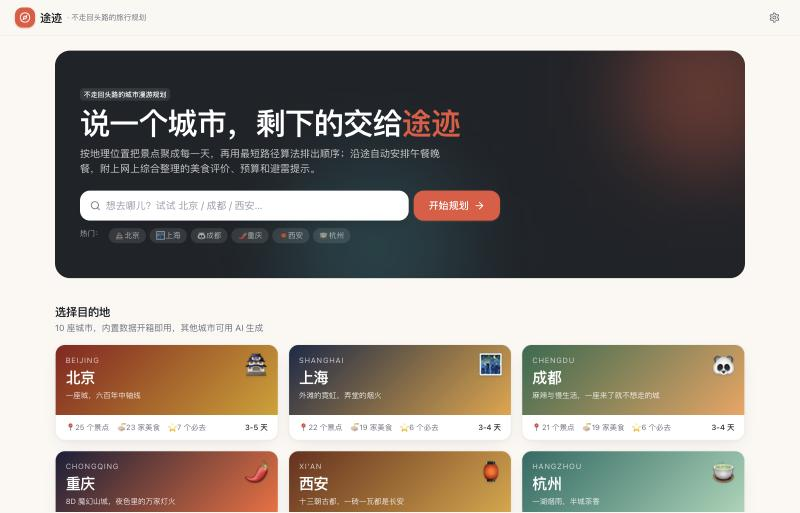
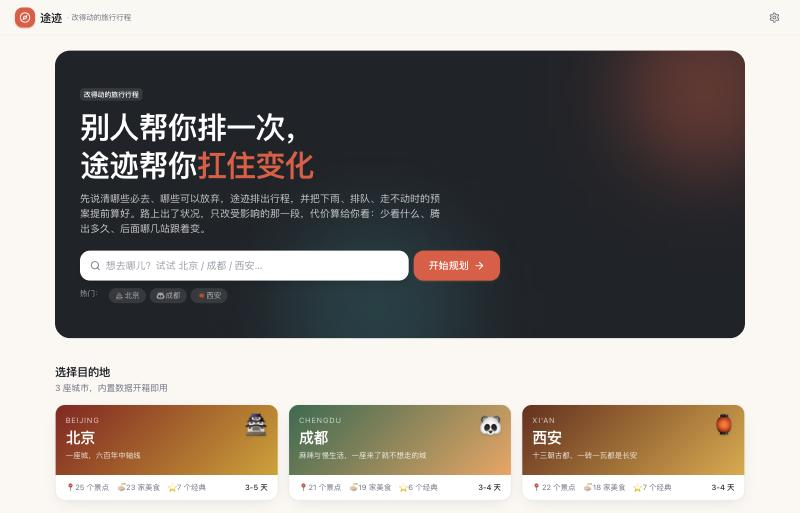
文档与文案：定位改为「改得动的旅行行程」
产品定位从「不走回头路的行程生成器」改为「行程变更引擎」，文案跟着换（详见 PROGRESS.md v0.9.2）。

- 首页：角标、大标题（别人帮你排一次，途迹帮你扛住变化）、导语和「怎么用」三张卡，
  页脚说明补上「路上的时间按直线距离估算」。
- 顶栏标语、网页标题与 meta description、偏好表单的提交按钮、package.json 的描述。
- README 中英文重写：功能按三档 / 改动代价 / 预案 / 给约束不给预测 / 行中模式排在前面，
  路线算法降为底层；新增「已收起的功能」一节；目录结构和命令行示例补上新文件。
- docs/screenshots：首页和行程页换成新界面，新增预案页。

文案不写「自动」识别下雨或排队、不写数据「已核验」、不把「两轮以内」写成已达成的结果。

diff --git a/src/components/Home.tsx b/src/components/Home.tsx
@@ -1,4 +1,4 @@
-import { ArrowRight, Clock3, MapPinned, Route, Search, Sparkles, Trash2, Utensils } from 'lucide-react'
+import { ArrowRight, Clock3, LifeBuoy, MapPinned, Route, Search, Sparkles, Trash2 } from 'lucide-react'
 import { useMemo, useState } from 'react'
 import type { City, SavedPlan } from '../types'
 import { FEATURES } from '../lib/features'
@@ -31,13 +31,14 @@ export function Home({ cities, savedPlans, hasApiKey, onSelectCity, onOpenPlan, 
         <div className="pointer-events-none absolute -right-16 -top-16 h-64 w-64 rounded-full bg-brand/40 blur-3xl" />
         <div className="pointer-events-none absolute -bottom-24 left-1/3 h-72 w-72 rounded-full bg-teal/40 blur-3xl" />
         <div className="relative max-w-2xl">
-          <Badge tone="brand" className="bg-white/10 text-white">不走回头路的城市漫游规划</Badge>
-          <h1 className="mt-3 text-3xl font-extrabold tracking-tight sm:text-5xl">
-            说一个城市，<br className="sm:hidden" />
-            剩下的交给<span className="text-brand">途迹</span>
+          <Badge tone="brand" className="bg-white/10 text-white">改得动的旅行行程</Badge>
+          <h1 className="mt-3 text-3xl font-extrabold tracking-tight sm:text-5xl sm:leading-tight">
+            别人帮你排一次，
+            <br />
+            途迹帮你<span className="text-brand">扛住变化</span>
           </h1>
           <p className="mt-3 max-w-xl text-sm text-white/75 sm:text-base">
-            按地理位置把景点聚成每一天，再用最短路径算法排出顺序；沿途自动安排午餐晚餐，附上网上综合整理的美食评价{FEATURES.budgetTab ? '、预算' : ''}和避雷提示。
+            先说清哪些必去、哪些可以放弃，途迹排出行程，并把下雨、排队、走不动时的预案提前算好。路上出了状况，只改受影响的那一段，代价算给你看：少看什么、腾出多久、后面哪几站跟着变。
           </p>
           <form
             className="mt-6 flex flex-col gap-2 sm:flex-row"
@@ -144,9 +145,9 @@ export function Home({ cities, savedPlans, hasApiKey, onSelectCity, onOpenPlan, 
       {/* 怎么用 */}
       <section className="mt-12 grid gap-4 sm:grid-cols-3">
         {[
-          { icon: <MapPinned className="text-brand" />, t: '1. 选城市，勾必去', d: '内置城市有真实景点与餐厅数据；点名几个必去的，其他交给算法。' },
-          { icon: <Route className="text-teal" />, t: '2. 设天数和节奏', d: '按位置聚类分天，Held-Karp 精确求最短路径，上午景点在前、夜景在后。' },
-          { icon: <Utensils className="text-xhs" />, t: '3. 沿途吃好喝好', d: '午餐晚餐就近安排，附综合评价、必点菜、排队提示和避雷。' },
+          { icon: <MapPinned className="text-brand" />, t: '1. 选城市，分三档', d: '必去的怎么改都保住，可放弃的时间不够先砍，没标的由途迹按兴趣和评分挑；然后排出每天的路线和用餐。' },
+          { icon: <LifeBuoy className="text-teal" />, t: '2. 出发前看预案', d: '下雨、走不动了、某个点去不了、排队太久，各有方案和代价。下不下雨由你说了算，途迹不接天气数据。' },
+          { icon: <Route className="text-xhs" />, t: '3. 路上只改必要的', d: '走完一站点一下，之后的改动只重算没走的那一段；每次改动都告诉你代价，不满意可以撤销。' },
         ].map((s) => (
           <Card key={s.t} className="p-5">
             <div className="flex h-10 w-10 items-center justify-center rounded-xl bg-paper">{s.icon}</div>
@@ -157,7 +158,7 @@ export function Home({ cities, savedPlans, hasApiKey, onSelectCity, onOpenPlan, 
       </section>
       <p className="mt-8 text-center text-xs text-muted">
         <Clock3 size={12} className="mr-1 inline" />
-        门票、营业时间和价格为编写时的参考值，出行前请以官方最新信息为准；美食评价为根据公开资料综合整理的参考。
+        门票、营业时间和价格为编写时的参考值，出行前请以官方最新信息为准；路上的时间按直线距离估算，只看量级；美食评价为根据公开资料综合整理的参考。
       </p>
     </div>
   )

diff --git a/index.html b/index.html
@@ -4,7 +4,8 @@
     <meta charset="UTF-8" />
     <meta name="viewport" content="width=device-width, initial-scale=1.0, viewport-fit=cover" />
     <meta name="theme-color" content="#FBF8F3" />
-    <title>途迹 · 不走回头路的旅行规划</title>
+    <title>途迹 · 改得动的旅行行程</title>
+    <meta name="description" content="先分必去、可选、可放弃，途迹排出行程和预案；下雨、排队、走不动时只改受影响的那一段，并把代价算给你看。" />
     <link rel="icon" href="/favicon.svg" type="image/svg+xml" />
   </head>
   <body>

diff --git a/src/App.tsx b/src/App.tsx
@@ -137,7 +137,7 @@ export default function App() {
               <Compass size={18} />
             </span>
             <span className="text-lg font-extrabold tracking-tight text-ink">途迹</span>
-            <span className="hidden text-xs text-muted sm:inline">· 不走回头路的旅行规划</span>
+            <span className="hidden text-xs text-muted sm:inline">· 改得动的旅行行程</span>
           </button>
           <div className="flex items-center gap-1">
             {view.name !== 'home' && (

diff --git a/src/components/PlanForm.tsx b/src/components/PlanForm.tsx
@@ -262,7 +262,7 @@ export function PlanForm({
       )}
 
       <Button type="submit" size="lg" className="w-full">
-        生成不走回头路的路线 →
+        生成行程和预案 →
       </Button>
     </form>
   )

diff --git a/PROGRESS.md b/PROGRESS.md
@@ -1,12 +1,12 @@
 # 途迹 · 开发日志与路线图
 
-> 项目：不走回头路的城市旅行规划 Web 应用（Vite + React 19 + TypeScript + Tailwind 4 + Leaflet）
+> 项目：改得动的旅行行程 Web 应用（Vite + React 19 + TypeScript + Tailwind 4 + Leaflet）。2026-11-04 起定位从「不走回头路的行程生成器」改为「行程变更引擎」
 > 位置：`~/Desktop/旅行规划助手`　启动：`npm run dev` → http://localhost:5173
 > 本文档记录每一次改进（更新记录）、已知问题和后续拓展计划。新改动请在「更新记录」最上方追加一条。
 
 ---
 
-## 一、当前功能一览（v0.9.1）
+## 一、当前功能一览（v0.9.2）
 
 > 2026-11-04 起，下表里的「内置城市」只在首页列出北京 / 成都 / 西安，「多方案」「预算 / 贴士」页、分享二维码、「AI 任意城市」都已收起（`src/lib/features.ts` 里的开关，代码和数据都在，改成 `true` 即恢复）。
 
@@ -33,6 +33,16 @@
 ---
 
 ## 二、更新记录（倒序）
+
+### v0.9.2 · 2026-11-04 · 定位文案改为「改得动」
+- **改了什么**：
+  - 首页：角标「改得动的旅行行程」，大标题「别人帮你排一次，途迹帮你扛住变化」，导语改讲三档、预案、只改受影响的那一段和代价；「怎么用」三张卡改为「选城市，分三档 / 出发前看预案 / 路上只改必要的」；页脚说明补了「路上的时间按直线距离估算，只看量级」。
+  - 顶栏标语、网页标题（并补了 meta description）、偏好表单的提交按钮（「生成行程和预案」）、`package.json` 的描述、本文档的项目简介。
+  - README 中英文重写：先讲问题和做法，功能按三档 / 改动代价 / 预案 / 给约束不给预测 / 行中模式排在前面，路线算法降为「底层」；新增「已收起的功能」一节和三条诚实说明（时间是估算、室内 / 露天未核验、「两轮以内」是设计目标尚无真实用户数据）；目录结构和命令行示例补上新文件。
+  - 截图：`docs/screenshots/` 的首页、行程页（带改动回执和地图高亮）换成新界面，新增预案页一张。
+- **文案上守的线**：不说「自动」识别下雨或排队（都是用户自己说的）；不说数据「已核验」；不把「≤ 2 轮」写成已达成的结果。
+- **没改的**：景点贴士里出现的「不走回头路」是游览路线的建议，不是产品定位，保留；`src/lib/ai.ts` 里给 AI 的提示词（功能已收起）；GitHub 仓库的描述和主题标签（在 GitHub 上，不在代码里）；线上网站在合并到 main 并推送之前仍是旧版。
+- **验证**：浏览器里核对了首页、顶栏、网页标题、表单按钮的新文案；`npm run build` 通过。
 
 ### v0.9.1 · 2026-11-04 · 收起旧功能（只隐藏，不删除）
 - **做法**：新增 `src/lib/features.ts`，一个开关对应一项旧功能，默认全部关闭；代码、数据、Cloudflare 代理都没动，把开关改成 `true` 就恢复。
